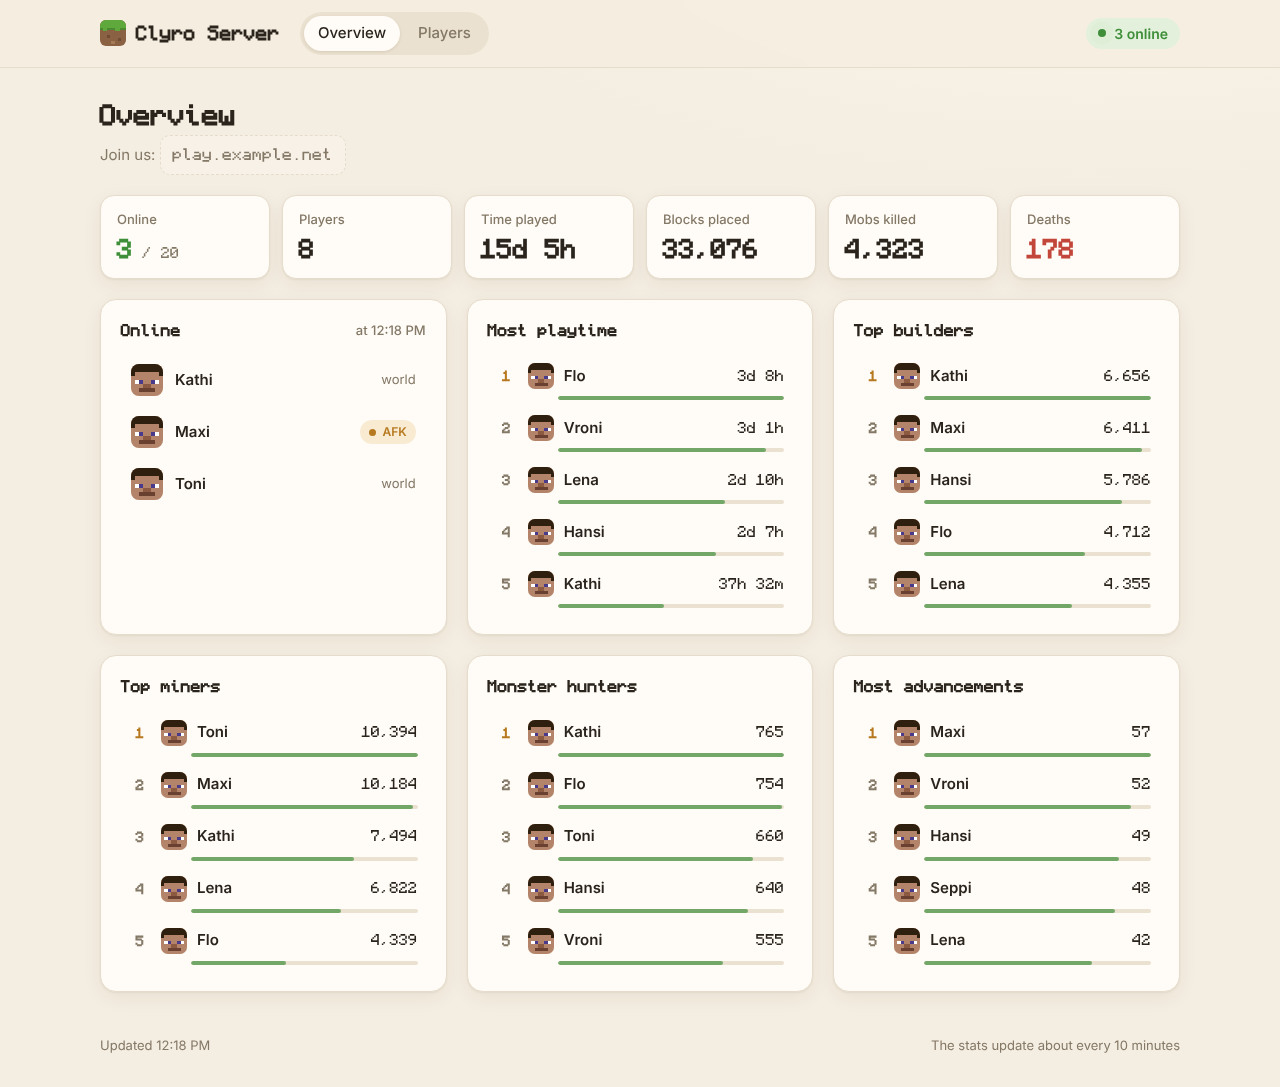
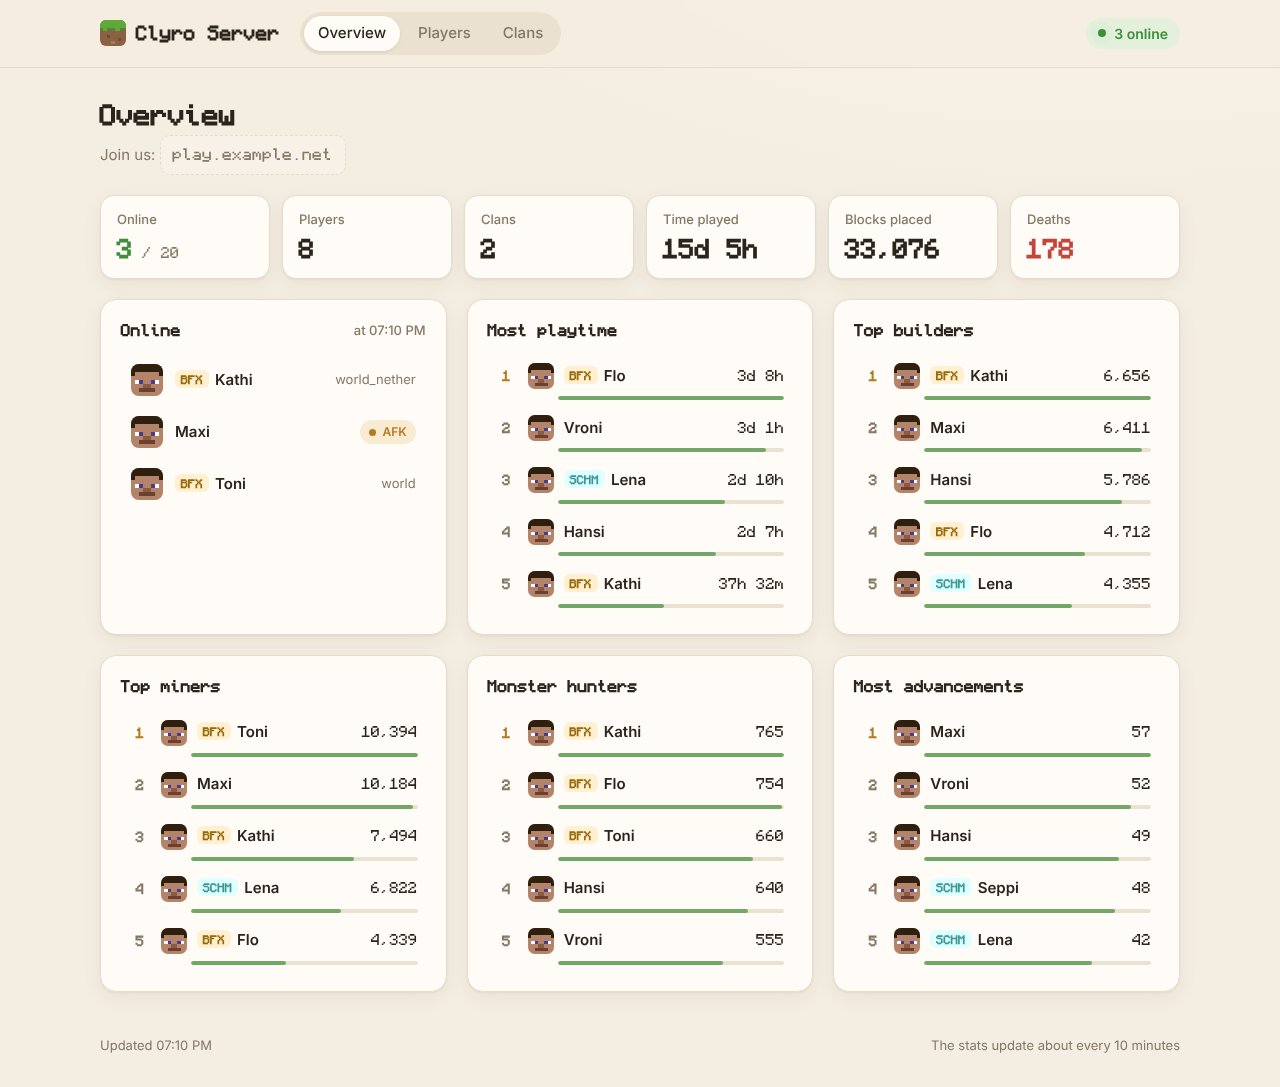
Show clans on the website (tag next to names and a Clans page)
The MineHosting plugin has clans again (clan chat and a shared chest, no
money), so the export also reads mc_clans and mc_clan_members. Clan chest
contents are never published.

Claude-Session: https://claude.ai/code/session_016kasB86faZbJKvsQwrztTL

diff --git a/site/app.js b/site/app.js
@@ -3,7 +3,7 @@
 // reads the finished JSON file.
 "use strict";
 
-const state = { data: null, players: [], sort: { key: "playtime", desc: true }, query: "", page: null };
+const state = { data: null, players: [], clans: [], sort: { key: "playtime", desc: true }, query: "", page: null };
 const app = document.getElementById("app");
 
 // ---------------------------------------------------------------- helpers
@@ -55,6 +55,10 @@ function head(uuid, cls = "head", size = 64) {
               onerror="this.onerror=null;this.src=FALLBACK_HEAD">`;
 }
 
+function clanTag(clan) {
+  return clan ? `<span class="tag" style="--c:${esc(clan.color)}" title="${esc(clan.name)}">${esc(clan.tag)}</span>` : "";
+}
+
 function statusPill(p) {
   if (p.online && p.afk) return `<span class="pill afk"><span class="dot"></span>AFK</span>`;
   if (p.online) return `<span class="pill online"><span class="dot"></span>Online</span>`;
@@ -76,6 +80,7 @@ async function load() {
     const data = await r.json();
     state.data = data;
     state.players = data.players || [];
+    state.clans = data.clans || [];
     const server = data.server || {};
     const name = server.name || "Server Stats";
     document.getElementById("server-name").textContent = name;
@@ -116,6 +121,7 @@ function render(navigated = true) {
   state.page = page;
   if (page === "players") { app.innerHTML = notices() + playersPage(); drawPlayerRows(); }
   else if (page === "player") app.innerHTML = playerPage(id);
+  else if (page === "clans") app.innerHTML = notices() + clansPage();
   else app.innerHTML = notices() + homePage();
 }
 
@@ -138,7 +144,7 @@ function board(title, key, show) {
   const max = top.length ? top[0][key] : 1;
   const rows = top.map((p, i) => `<li>
       <a href="#/player/${esc(p.uuid)}"><span class="rank">${i + 1}</span>${head(p.uuid, "head sm")}
-        <span class="name">${esc(p.name)}</span><span class="amount">${show(p[key])}</span></a>
+        <span class="name">${clanTag(p.clan)}${esc(p.name)}</span><span class="amount">${show(p[key])}</span></a>
       <div class="bar"><span style="width:${Math.max(4, Math.round(p[key] / max * 100))}%"></span></div></li>`).join("");
   return `<section class="card"><h2>${esc(title)}</h2>${rows ? `<ol class="board">${rows}</ol>` : `<p class="empty">Nobody yet.</p>`}</section>`;
 }
@@ -149,7 +155,7 @@ function homePage() {
   const online = players.filter(p => p.online).sort((a, b) => a.name.toLowerCase().localeCompare(b.name.toLowerCase()));
   const sum = key => players.reduce((total, p) => total + (p[key] || 0), 0);
   const onlineList = online.map(p => `<li><a href="#/player/${esc(p.uuid)}">${head(p.uuid)}
-      <span class="name">${esc(p.name)}</span>
+      <span class="name">${clanTag(p.clan)}${esc(p.name)}</span>
       <span class="meta">${p.afk ? `<span class="pill afk"><span class="dot"></span>AFK</span>` : esc(p.world)}</span></a></li>`).join("");
   const join = s.address ? `<p>Join us: <span class="join">${esc(s.address)}</span></p>` : `<p>What's happening on the server.</p>`;
   return `
@@ -157,9 +163,9 @@ function homePage() {
     <div class="stats">
       ${stat("Online", `${s.up ? online.length : 0}<small> / ${s.maxPlayers || 0}</small>`, "green")}
       ${stat("Players", num(players.length))}
+      ${stat("Clans", num(state.clans.length))}
       ${stat("Time played", duration(sum("playtime")))}
       ${stat("Blocks placed", num(sum("blocksPlaced")))}
-      ${stat("Mobs killed", num(sum("mobKills")))}
       ${stat("Deaths", num(sum("deaths")), "red")}
     </div>
     <div class="grid">
@@ -176,7 +182,7 @@ function homePage() {
 }
 
 const columns = [
-  { key: "name", label: "Player", cell: p => `<a href="#/player/${esc(p.uuid)}">${head(p.uuid, "head sm")}<span class="pname">${esc(p.name)}</span></a>`, text: true },
+  { key: "name", label: "Player", cell: p => `<a href="#/player/${esc(p.uuid)}">${head(p.uuid, "head sm")}${clanTag(p.clan)}<span class="pname">${esc(p.name)}</span></a>`, text: true },
   { key: "lastSeen", label: "Status", cell: p => statusPill(p), sortValue: p => p.online ? Number.MAX_SAFE_INTEGER - (p.afk ? 1 : 0) : p.lastSeen },
   { key: "playtime", label: "Playtime", cell: p => duration(p.playtime), num: true },
   { key: "activeTime", label: "Active", cell: p => duration(p.activeTime), num: true },
@@ -192,7 +198,7 @@ function playersPage() {
     <div class="page-head"><h1>Players</h1><p>Everyone who has joined. Click a column to sort.</p></div>
     <section class="card">
       <h2><span id="player-count">All players</span>
-        <input class="search" id="search" type="search" placeholder="Search players" value="${esc(state.query)}" aria-label="Search"></h2>
+        <input class="search" id="search" type="search" placeholder="Search players or clans" value="${esc(state.query)}" aria-label="Search"></h2>
       <div id="rows"></div>
     </section>`;
 }
@@ -204,7 +210,7 @@ function drawPlayerRows() {
   const value = col.sortValue || (p => col.text ? String(p[col.key]).toLowerCase() : p[col.key]);
   const q = state.query.trim().toLowerCase();
   const list = state.players
-    .filter(p => !q || p.name.toLowerCase().includes(q))
+    .filter(p => !q || p.name.toLowerCase().includes(q) || (p.clan && (p.clan.name + " " + p.clan.tag).toLowerCase().includes(q)))
     .sort((a, b) => {
       const x = value(a), y = value(b);
       const r = x < y ? -1 : x > y ? 1 : 0;
@@ -232,6 +238,7 @@ function playerPage(uuid) {
           <h1>${esc(p.name)}</h1>
           <div class="sub">
             ${statusPill(p)}
+            ${p.clan ? `<a href="#/clans">${clanTag(p.clan)}${esc(p.clan.name)}${p.clanRole && p.clanRole !== "member" ? ` · ${esc(p.clanRole)}` : ""}</a>` : ""}
             <span>Joined ${esc(date(p.firstJoin))}</span>
           </div>
         </div>
@@ -261,6 +268,37 @@ function playerPage(uuid) {
         </ul>
       </section>
     </div>`;
+}
+
+const ROLE_ORDER = { owner: 0, officer: 1, member: 2 };
+
+function clansPage() {
+  const top = `<div class="page-head"><h1>Clans</h1><p>Make your own in game with <b>/clan create &lt;name&gt; &lt;tag&gt;</b>.</p></div>`;
+  if (!state.clans.length) return top + `<section class="card"><p class="empty">No clans yet.</p></section>`;
+  const byId = new Map(state.players.map(p => [p.uuid, p]));
+  const clans = state.clans.map(c => {
+    const members = c.members.map(m => ({ ...m, player: byId.get(m.uuid) })).filter(m => m.player);
+    return {
+      ...c, members,
+      playtime: members.reduce((t, m) => t + m.player.playtime, 0),
+      blocks: members.reduce((t, m) => t + m.player.blocksPlaced, 0),
+      online: members.filter(m => m.player.online).length,
+    };
+  }).sort((a, b) => b.members.length - a.members.length || b.playtime - a.playtime);
+  return top + `<div class="grid">${clans.map(c => `
+    <section class="card">
+      <div class="clan-top">${clanTag(c)}<span class="cname">${esc(c.name)}</span></div>
+      <p class="clan-sub">Since ${esc(date(c.created))}</p>
+      <div class="clan-figures">
+        <div><b>${c.members.length}</b><span>members</span></div>
+        <div><b>${c.online}</b><span>online</span></div>
+        <div><b>${duration(c.playtime)}</b><span>played</span></div>
+        <div><b>${num(c.blocks)}</b><span>blocks placed</span></div>
+      </div>
+      <div class="members">${[...c.members].sort((a, b) => (ROLE_ORDER[a.role] ?? 3) - (ROLE_ORDER[b.role] ?? 3) || a.player.name.localeCompare(b.player.name)).map(m => `<a class="member" href="#/player/${esc(m.uuid)}">${head(m.uuid)}
+          ${esc(m.player.name)}${m.role !== "member" ? `<span class="role">${esc(m.role)}</span>` : ""}
+          ${m.player.online ? `<span class="dot" title="online"></span>` : ""}</a>`).join("")}</div>
+    </section>`).join("")}</div>`;
 }
 
 // ---------------------------------------------------------------- events

diff --git a/site/style.css b/site/style.css
@@ -137,6 +137,13 @@ main { max-width: 1120px; margin: 0 auto; padding: 28px 20px 16px; }
 .people .name { font-weight: 600; }
 .people .meta { margin-left: auto; color: var(--muted); font-size: 13px; }
 
+.tag {
+  display: inline-block; font-family: var(--mc); font-weight: 700; font-size: 11px; line-height: 1;
+  padding: 4px 6px 3px; border-radius: 6px; margin-right: 6px; vertical-align: 1px;
+  color: color-mix(in srgb, var(--c, #888) 55%, #1d1a16);
+  background: color-mix(in srgb, var(--c, #888) 18%, #ffffff);
+}
+
 .pill { display: inline-flex; align-items: center; gap: 6px; font-size: 12px; font-weight: 600; padding: 3px 9px; border-radius: 999px; }
 .pill.online { color: var(--green); background: var(--green-soft); }
 .pill.afk { color: var(--gold); background: var(--gold-soft); }
@@ -177,6 +184,7 @@ tbody tr:hover td { background: var(--soft); }
 .num { text-align: right; }
 td a { display: inline-flex; align-items: center; gap: 10px; font-weight: 600; }
 td a:hover .pname { text-decoration: underline; }
+td a .tag { margin-right: -4px; }
 
 /* ---------------------------------------------------------------- profile */
 
@@ -195,6 +203,23 @@ td a:hover .pname { text-decoration: underline; }
 
 .notice { background: var(--gold-soft); color: #6b4a12; border-radius: 12px; padding: 12px 16px; margin-bottom: 20px; font-size: 14px; }
 .join { font-family: var(--mc); background: var(--soft); border: 1px dashed var(--line); border-radius: 10px; padding: 8px 12px; display: inline-block; user-select: all; }
+
+/* ---------------------------------------------------------------- clans */
+
+.clan-top { display: flex; align-items: center; gap: 10px; margin-bottom: 4px; }
+.clan-top .tag { font-size: 13px; padding: 5px 8px 4px; }
+.clan-top .cname { font-family: var(--mc); font-weight: 700; font-size: 18px; }
+.clan-sub { color: var(--muted); font-size: 13px; margin: 0 0 14px; }
+.clan-figures { display: grid; grid-template-columns: repeat(2, 1fr); gap: 8px; margin-bottom: 14px; }
+.clan-figures div { background: var(--soft); border-radius: 10px; padding: 8px 10px; }
+.clan-figures b { display: block; font-family: var(--mc); font-size: 16px; }
+.clan-figures span { font-size: 12px; color: var(--muted); }
+.members { display: flex; flex-wrap: wrap; gap: 6px; }
+.member { display: inline-flex; align-items: center; gap: 8px; padding: 4px 10px 4px 4px; border: 1px solid var(--line); border-radius: 999px; font-size: 13px; font-weight: 600; background: #fff; }
+.member .head { width: 24px; height: 24px; border-radius: 50%; }
+.member:hover { border-color: var(--muted); }
+.member .role { font-weight: 500; color: var(--muted); }
+.member .dot { color: var(--green); }
 
 /* ---------------------------------------------------------------- footer */
 

diff --git a/site/index.html b/site/index.html
@@ -19,6 +19,7 @@
       <nav class="tabs" aria-label="Pages">
         <a href="#/" data-page="home">Overview</a>
         <a href="#/players" data-page="players">Players</a>
+        <a href="#/clans" data-page="clans">Clans</a>
       </nav>
       <span class="live" id="live"><span class="pulse"></span><span id="live-text">Loading</span></span>
     </div>

diff --git a/README.md b/README.md
@@ -4,9 +4,10 @@ The stats website for our Minecraft server (MineHosting). It shows:
 
 - who is **online** right now (and who is AFK),
 - **top lists**: most playtime, top builders, top miners, monster hunters, most advancements,
-- a **players** page with every player (sortable and searchable) and a page for each player.
+- a **players** page with every player (sortable and searchable) and a page for each player,
+- a **clans** page: every clan with its tag, members (owner, officers), how many are online and how much they played. The clan tag is also shown next to player names everywhere.
 
-There are **no clans** and **no money** on this website.
+There is **no money** on this website, and the contents of the clan chests are never shown.
 
 ![Preview of the website](docs/preview.png)
 
@@ -23,7 +24,7 @@ plugin "Clyro" ── copies stats ──▶ MySQL database ──▶ reads the 
                                          └── uses the secrets DB_HOST, DB_USER, DB_PASSWORD ...
 ```
 
-1. The Minecraft plugin (repository **MinecraftPlugin**, branch **MineHosting**) copies the player stats into a MySQL database every 30 seconds.
+1. The Minecraft plugin (repository **MinecraftPlugin**, branch **MineHosting**) copies the player stats and clans into a MySQL database every 30 seconds.
 2. Every 10 minutes, GitHub runs the workflow **"Update website"**. It logs in to the database with the **secrets** you saved in this repository, reads the stats and builds the website.
 3. GitHub Pages shows the website.
 
@@ -126,7 +127,7 @@ GitHub pauses timed workflows in public repositories when nothing changed in the
 ## For developers
 
 - `site/` – the website itself (plain HTML, CSS and JavaScript, no build tools). It only reads `data/stats.json`.
-- `scripts/export.mjs` – reads the database (tables `mc_players`, `mc_online`, `mc_server`) and writes `_site/` = `site/` + `data/stats.json`.
+- `scripts/export.mjs` – reads the database (tables `mc_players`, `mc_online`, `mc_clans`, `mc_clan_members`, `mc_server`) and writes `_site/` = `site/` + `data/stats.json`.
 - `.github/workflows/deploy.yml` – runs the export every 10 minutes and publishes `_site/` on GitHub Pages.
 
 Optional repository **variables**: `DB_TABLE_PREFIX` (default `mc_`, must match `database.table-prefix` in the plugin), `DB_SSL` (`true` for an encrypted database connection).
